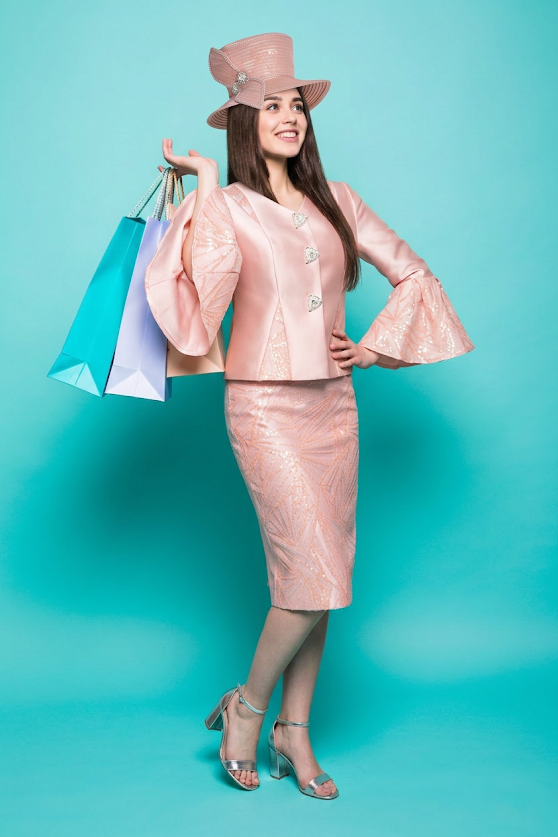
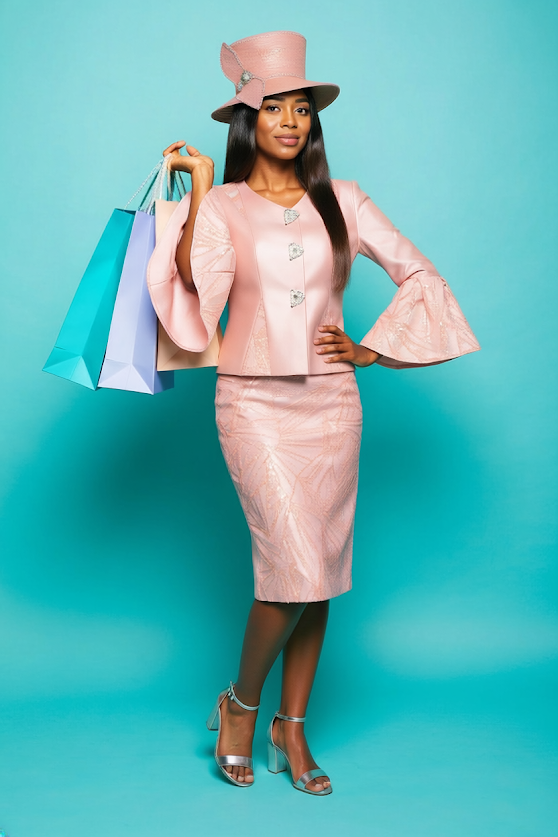
home page skin changes with popup data

diff --git a/src/app/page.js b/src/app/page.js
@@ -63,98 +63,94 @@ export default function HomePage() {
     <main className={styles.page}>
       {/* HERO */}
       <section className={styles.heroSection}>
-  <div className={styles.heroBgGlow} />
+        <div className={styles.heroBgGlow} />
 
-  <div className={`container ${styles.heroContainer}`}>
-    <div className={styles.heroGrid}>
-      {/* LEFT */}
-      <div className={styles.heroLeft}>
-        <div className={styles.eyebrowBadge}>
-          Free Website • Fashion Affiliate Program • Dropshipping
-        </div>
+        <div className={`container ${styles.heroContainer}`}>
+          <div className={styles.heroGrid}>
+            {/* LEFT */}
+            <div className={styles.heroLeft}>
+              <div className={styles.eyebrowBadge}>
+                Free Website • Fashion Affiliate Program • Dropshipping
+              </div>
+              
+              <h1 className={styles.heroTitle}>
+                Build A Premium Church Fashion Business
+              </h1>
 
-        <h1 className={styles.heroTitle}>
-          Build A Premium Church Fashion Business Without Inventory
-        </h1>
+              <div className={styles.heroMiniGrid}>
+                {[
+                  {
+                    title: "Zero Risk, No Investment",
+                    desc: "",
+                  },
+                  {
+                    title: "Make Money Instantly",
+                    desc: "",
+                  },
+                  {
+                    title: "No Experience Needed",
+                    desc: "",
+                  },
+                ].map((item) => (
+                  <div key={item.title} className={styles.miniCard}>
+                    <div className={styles.miniCardTitle}>{item.title}</div>
+                    <div className={styles.miniCardDesc}>{item.desc}</div>
+                  </div>
+                ))}
+              </div>
 
-        <p className={styles.heroText}>
-          Launch your own affiliate fashion website with elegant products,
-          a polished online store, and automated fulfillment designed to
-          help you start selling faster.
-        </p>
+              <p className={styles.heroText}>
+                Launch your own affiliate fashion website with elegant products,
+                a polished online store, and automated fulfillment designed to
+                help you start selling faster.
+              </p>
 
-        <div className={styles.heroButtonRow}>
-          <Link href="/register" className={`${styles.primaryBtn} text-decoration-none`}>
-            Start Free Registration
-          </Link>
+              <div className={styles.heroButtonRow}>
+                <Link href="/register" className={`${styles.primaryBtn} text-decoration-none`}>
+                  Start Your Online Business Now
+                </Link>
+              </div>
 
-          <Link href="/register" className={`${styles.secondaryBtn} text-decoration-none`}>
-            Create My Affiliate Store
-          </Link>
-        </div>
-
-        <div className={styles.heroMeta}>
-          <span>No inventory cost</span>
-          <span className="hidden sm:inline">•</span>
-          <span>Free website setup</span>
-          <span className="hidden sm:inline">•</span>
-          <span>Cancel anytime</span>
-        </div>
-
-        <div className={styles.heroMiniGrid}>
-          {[
-            {
-              title: "Fast Setup",
-              desc: "Your store is built for you.",
-            },
-            {
-              title: "Premium Fashion",
-              desc: "Sell elegant, in-demand styles.",
-            },
-            {
-              title: "We Fulfill Orders",
-              desc: "You focus on promotion.",
-            },
-          ].map((item) => (
-            <div key={item.title} className={styles.miniCard}>
-              <div className={styles.miniCardTitle}>{item.title}</div>
-              <div className={styles.miniCardDesc}>{item.desc}</div>
+              <div className={styles.heroMeta}>
+                <span>No inventory cost</span>
+                <span className="hidden sm:inline">•</span>
+                <span>Free website setup</span>
+                <span className="hidden sm:inline">•</span>
+                <span>Cancel anytime</span>
+              </div>
             </div>
-          ))}
+
+            {/* RIGHT */}
+            <div className={styles.heroRight}>
+              <div className={styles.heroImageGrid}>
+                <div className={styles.imageCardLarge}>
+                  <img
+                    src="/assets/images/home/lifestyle-woman.jpg"
+                    alt="Fashion model collage"
+                    className={styles.imageLarge}
+                  />
+                </div>
+
+                <div className={styles.imageCardSmall}>
+                  <img
+                    src="/assets/images/home/boutique-lifestyle-new.jpg"
+                    alt="Elegant woman in church fashion"
+                    className={styles.imageSmall}
+                  />
+                </div>
+
+                <div className={styles.imageCardSmall}>
+                  <img
+                    src="/assets/images/home/product-collage.jpg"
+                    alt="Fashion product collage"
+                    className={styles.imageSmall}
+                  />
+                </div>
+              </div>
+            </div>
+          </div>
         </div>
-      </div>
-
-      {/* RIGHT */}
-      <div className={styles.heroRight}>
-        <div className={styles.heroImageGrid}>
-          <div className={styles.imageCardLarge}>
-            <img
-              src="/assets/images/home/lifestyle-woman.jpg"
-              alt="Fashion model collage"
-              className={styles.imageLarge}
-            />
-          </div>
-
-          <div className={styles.imageCardSmall}>
-            <img
-              src="/assets/images/home/boutique-lifestyle-new.jpg"
-              alt="Elegant woman in church fashion"
-              className={styles.imageSmall}
-            />
-          </div>
-
-          <div className={styles.imageCardSmall}>
-            <img
-              src="/assets/images/home/product-collage.jpg"
-              alt="Fashion product collage"
-              className={styles.imageSmall}
-            />
-          </div>
-        </div>
-      </div>
-    </div>
-  </div>
-</section>
+      </section>
 
       {/* PAYMENT + SHIPPING STRIP */}
       <section className={styles.trustSection}>

diff --git a/src/components/NewsletterPopup.js b/src/components/NewsletterPopup.js
@@ -213,42 +213,51 @@ export default function NewsletterPopup() {
 
               <div className="pr-8">
                 <div className="inline-flex items-center rounded-full border border-[#ead7fb] bg-[#f5eaff] px-3 py-1 text-[10px] font-semibold uppercase tracking-[0.18em] text-[#8b5cc7]">
-                  Affiliate Program
+                  Dropshipping Program
                 </div>
 
                 <h2 className="mt-3 text-2xl font-bold text-slate-900 sm:text-[28px]">
-                  Start Your Affiliate Store
+                  Start Your Dropshipping Store
                 </h2>
 
                 <p className="mt-2 text-sm leading-6 text-slate-500">
-                  Promote premium church fashion online while we handle
-                  inventory, packing and shipping.
+                  From store setup to order fulfillment, our system is built to make online selling easier and more elegant.
                 </p>
 
-                <div className="mt-4 grid gap-2 text-sm text-slate-700">
+                <div className="mt-2 grid gap-2 text-sm text-slate-700">
                   <div className="flex items-center gap-2">
                     <span className="h-2 w-2 rounded-full bg-[#7d48c8]" />
-                    Free store setup
+                    Free Store Setup
                   </div>
 
                   <div className="flex items-center gap-2">
                     <span className="h-2 w-2 rounded-full bg-[#7d48c8]" />
-                    Earn commissions per order
+                    Premium Product Access
                   </div>
 
                   <div className="flex items-center gap-2">
                     <span className="h-2 w-2 rounded-full bg-[#7d48c8]" />
-                    Marketing tools included
+                    Automated Fulfillment
                   </div>
-                </div>
 
-                <div className="mt-4 text-xs text-slate-500">
-                  Enter your email and mobile number to receive onboarding
-                  details.
+                  <div className="flex items-center gap-2">
+                    <span className="h-2 w-2 rounded-full bg-[#7d48c8]" />
+                    No Experience Needed
+                  </div>
+
+                  <div className="flex items-center gap-2">
+                    <span className="h-2 w-2 rounded-full bg-[#7d48c8]" />
+                    Elegant Store Presentation
+                  </div>
+
+                  <div className="flex items-center gap-2">
+                    <span className="h-2 w-2 rounded-full bg-[#7d48c8]" />
+                    Built For Real Profit
+                  </div>
                 </div>
               </div>
 
-              <form onSubmit={handleSubmit(onSubmit)} className="mt-5 space-y-3">
+              <form onSubmit={handleSubmit(onSubmit)} className="mt-3 space-y-3">
                 <div className="space-y-1">
                   <Label className="text-sm font-semibold text-slate-800">
                     Email Address
@@ -314,7 +323,7 @@ export default function NewsletterPopup() {
                 </div>
 
                 <div className="flex items-center justify-between pt-2">
-                  <Button
+                  {/* <Button
                     type="button"
                     variant="outline"
                     onClick={() => closePopup("close")}
@@ -322,25 +331,19 @@ export default function NewsletterPopup() {
                     className="h-10 rounded-full border-[#e7d5fb] px-5 text-[#7d48c8]"
                   >
                     Close
-                  </Button>
+                  </Button> */}
 
                   <Button
                     type="submit"
                     disabled={loading}
-                    className="h-10 rounded-full border-0 px-5 text-white"
+                    className="h-11 w-full rounded-full border-0 px-5 text-sm font-semibold text-white shadow-lg"
                     style={{
-                      background:
-                        "linear-gradient(135deg, #9d6ce0 0%, #7d48c8 100%)",
+                      background: "linear-gradient(135deg, #9d6ce0 0%, #7d48c8 100%)",
                     }}
                   >
                     {loading ? "Joining..." : "Join Now"}
                   </Button>
                 </div>
-
-                <p className="text-xs text-slate-500">
-                  Your information stays secure with us — we never share it with
-                  third parties.
-                </p>
               </form>
             </div>
           </div>

diff --git a/src/app/footer.js b/src/app/footer.js
@@ -75,7 +75,7 @@ export default function Footer() {
         </div>
 
         <div className={styles.bottomBar}>
-          <div>© {year} ${storeName}. All rights reserved.</div>
+          <div>© {year} {storeName}. All rights reserved.</div>
 
           <div className={styles.bottomLinks}>
             <Link href="/about-us" className={styles.footerLink}>About Us</Link>

diff --git a/src/app/home.module.css b/src/app/home.module.css
@@ -112,6 +112,7 @@
   font-size: 1rem;
   font-weight: 700;
   color: #111827;
+  text-align: center;
 }
 
 .miniCardDesc {